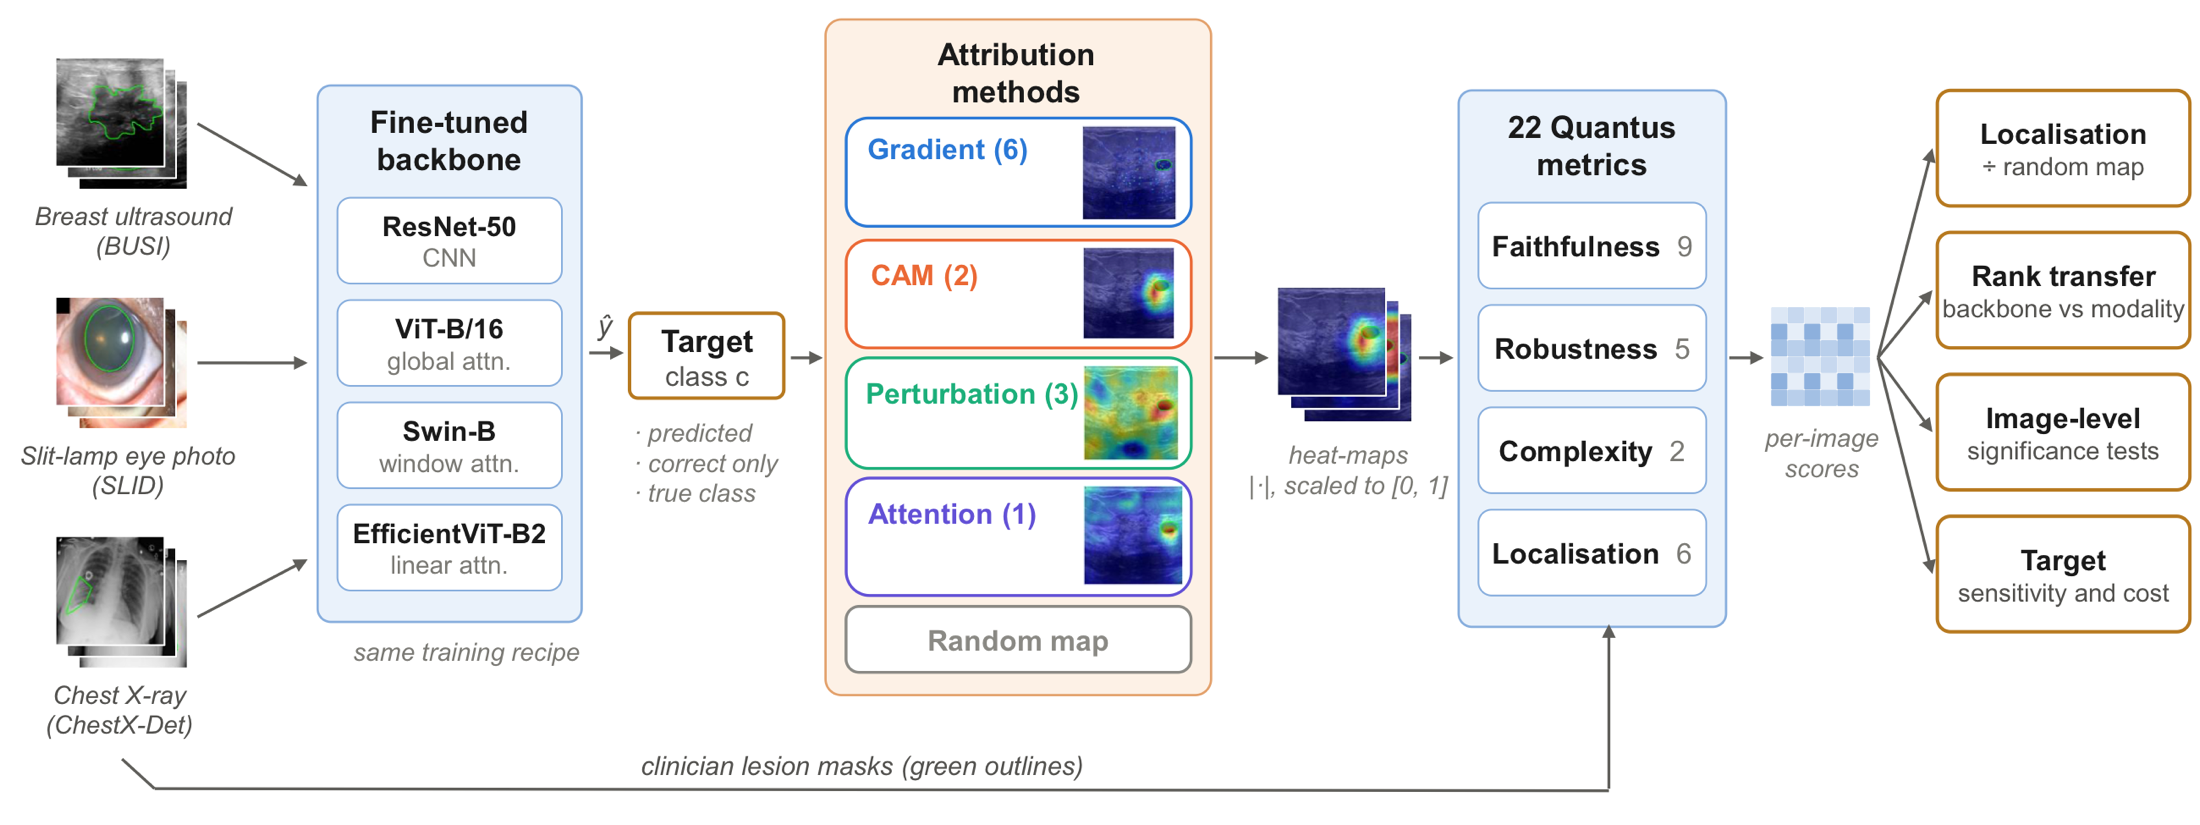
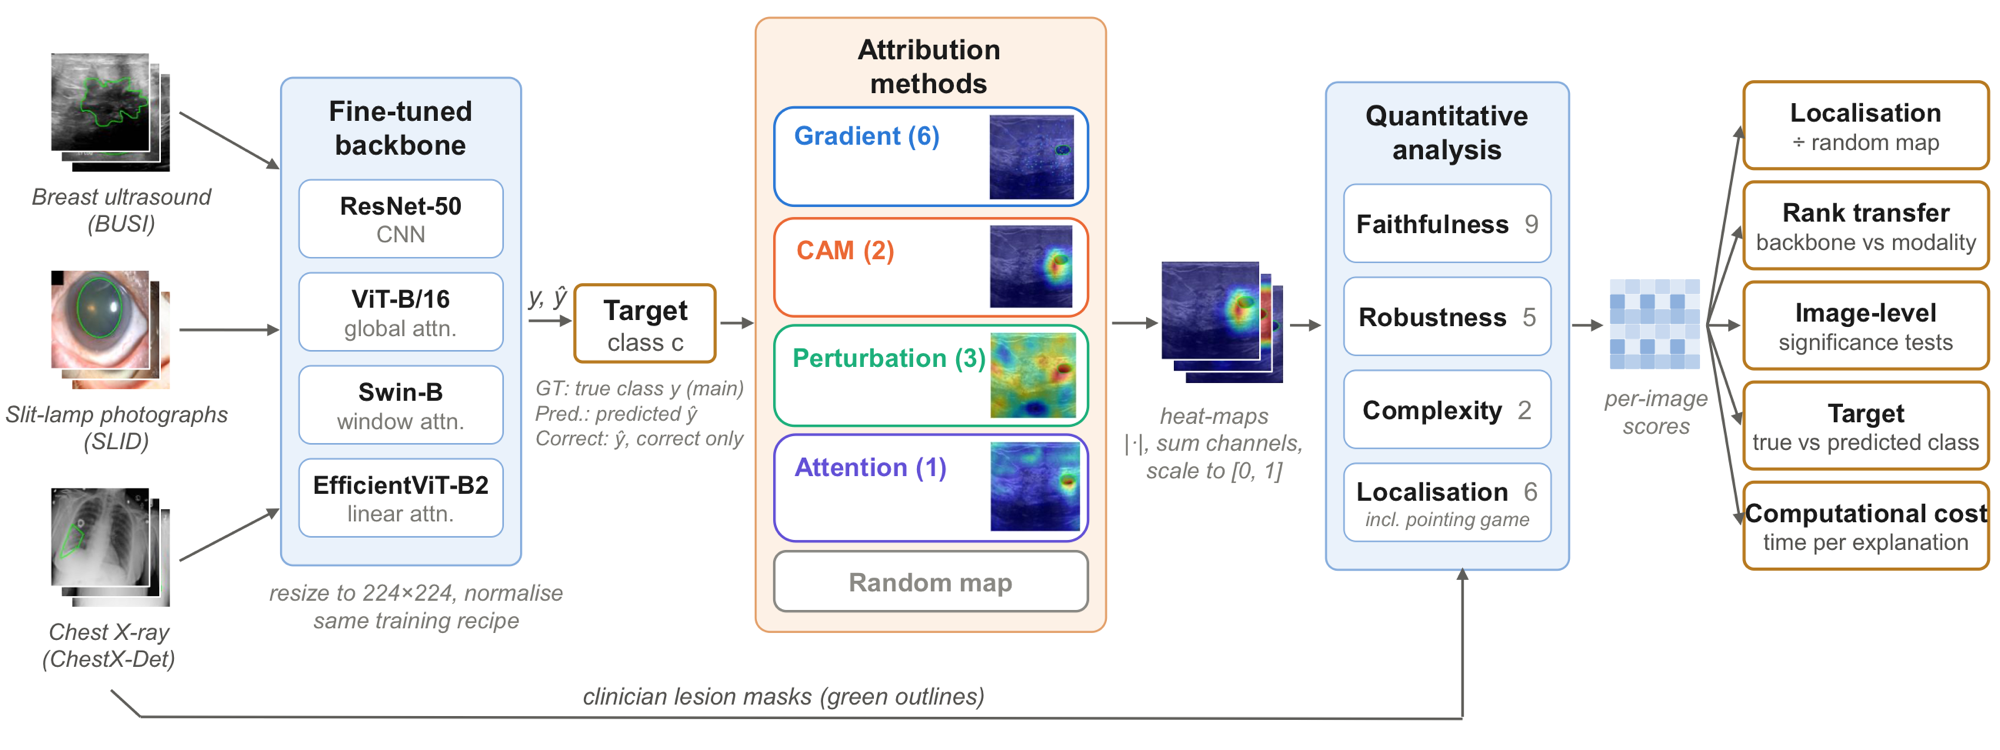
updated figures

diff --git a/docs/index.html b/docs/index.html
@@ -172,8 +172,10 @@ footer{border-top:1px solid var(--line);padding-block:30px 50px;color:var(--mute
   <span class="rq">Architecture or modality?</span>
   <h2 id="h-transfer">Rankings follow the backbone, not the dataset</h2>
   <p class="lede">The 11 methods that run on every backbone are ranked for each metric, and two rankings are compared with the Spearman correlation ρ. <b>Across modalities</b> compares two datasets with the same backbone. <b>Across architectures</b> compares two backbones on the same dataset. Two unrelated rankings of 11 methods would give about 0.</p>
-  <figure class="fig"><img src="static/figures/fig4_transfer.png" alt="(a) EBPG method-ranking agreement matrix, with high agreement within the same backbone. (b) Mean Spearman correlation by metric group, higher across modalities than across architectures."></figure>
+  <figure class="fig"><img src="static/figures/fig5_transfer.png" alt="(a) EBPG method-ranking agreement matrix, with high agreement within the same backbone. (b) Mean Spearman correlation by metric group, higher across modalities than across architectures."></figure>
   <p class="caption"><b>(a)</b> Agreement of EBPG method rankings between every backbone–dataset pair. The dark blocks on the diagonal show that one backbone ranks the methods similarly on all three datasets. <b>(b)</b> Mean ρ by metric group, with 95% bootstrap confidence intervals. For localisation, rankings agree at 0.55 across modalities but only 0.28 across architectures.</p>
+  <figure class="fig" style="margin-top:22px"><img src="static/figures/fig6_rank_bump.png" alt="EBPG rank of the 11 methods: (a) BUSI on four backbones, where the lines cross a lot; (b) EfficientViT-B2 on three datasets, where the ranking stays similar." loading="lazy"></figure>
+  <p class="caption"><b>The rankings behind the correlations</b> (EBPG, true class; rank 1 = best). <b>(a)</b> One dataset (BUSI) on four backbones: Grad-CAM and Grad-CAM++ rank first and second on ResNet-50 but fall to the bottom on ViT-B/16 (mean ρ = 0.27). <b>(b)</b> One backbone (EfficientViT-B2) on three datasets: the simple gradient methods and Occlusion stay in the upper half everywhere (mean ρ = 0.66). CAM methods are drawn as thick lines.</p>
   <details class="explore">
     <summary>Explore the rankings interactively</summary>
     <div class="card">
@@ -212,9 +214,9 @@ footer{border-top:1px solid var(--line);padding-block:30px 50px;color:var(--mute
   <span class="rq">Explanation target</span>
   <h2 id="h-target">Does it matter which class is explained?</h2>
   <p class="lede">When a model misclassifies an image, explaining its prediction can make a method look worse only because the classifier was wrong. We therefore explain the true class, and check whether the results change when the predicted class is explained instead.</p>
-  <figure class="fig"><img src="static/figures/fig5_target.png" alt="EBPG with the predicted-class target against the ground-truth target, per dataset. Points lie on the diagonal except some CAM methods."></figure>
+  <figure class="fig"><img src="static/figures/fig7_target.png" alt="EBPG with the predicted-class target against the ground-truth target, per dataset. Points lie on the diagonal except some CAM methods."></figure>
   <p class="caption"><b>Predicted class vs true class.</b> Each point is one method on one backbone. Points on the dashed diagonal give the same score under both targets. Gradient, perturbation and attention methods stay on the diagonal; only the CAM methods move.</p>
-  <figure class="fig" style="margin-top:22px"><img src="static/figures/fig8_mechanism.png" alt="Why the target matters only for CAM: (a) gradient methods give the same heat-map for either class, (b) CAM keeps different channels per class, (c) ViT-B/16 Grad-CAM gives empty maps."></figure>
+  <figure class="fig" style="margin-top:22px"><img src="static/figures/fig10_mechanism.png" alt="Why the target matters only for CAM: (a) gradient methods give the same heat-map for either class, (b) CAM keeps different channels per class, (c) ViT-B/16 Grad-CAM gives empty maps."></figure>
   <p class="caption"><b>Why only CAM methods change.</b> (a) In a two-class task the gradients of the two classes are near mirror images, so gradient heat-maps are the same for either class. (b) CAM weights change sign with the class, so a different set of channels survives the ReLU. (c) On ViT-B/16 the weighted sum can fall below zero on every patch, which leaves an empty Grad-CAM map.</p>
   <details class="explore">
     <summary>Best method under each protocol</summary>
@@ -253,6 +255,8 @@ footer{border-top:1px solid var(--line);padding-block:30px 50px;color:var(--mute
   <span class="rq">Metric reliability</span>
   <h2 id="h-stats">Which metrics can tell the methods apart?</h2>
   <p class="lede">Image-level Friedman tests over the ranked methods, with Bonferroni correction for the 22 metrics. A metric that cannot separate the methods is of little use for choosing one.</p>
+  <figure class="fig" style="max-width:820px;margin-inline:auto;margin-bottom:10px"><img src="static/figures/fig4_metric_agreement.png" alt="Lower-triangle matrix of mean Spearman correlation between the method rankings of the 22 metrics, grouped into faithfulness, robustness, complexity and localisation." loading="lazy"></figure>
+  <p class="caption" style="margin-bottom:18px"><b>Do the metrics agree with each other?</b> Each cell is the Spearman correlation between the method rankings of two metrics, averaged over the 12 dataset–backbone pairs. The localisation metrics agree closely (mean ρ = 0.70), and so do the two complexity metrics (0.89). Faithfulness metrics agree only weakly (0.25), so the choice of faithfulness metric can change the conclusion.</p>
   <div class="card">
     <div class="controls"><label>Dataset <span class="seg" id="frDs"></span></label></div>
     <div class="scroll"><table id="frTable"></table></div>
@@ -267,11 +271,20 @@ footer{border-top:1px solid var(--line);padding-block:30px 50px;color:var(--mute
   <figure class="fig scroll"><img id="galImg" class="wide" alt="Attribution maps for each backbone and method" loading="lazy"></figure>
 </section>
 
+<!-- ================= METHOD PROFILE ================= -->
+<section class="wrap" aria-labelledby="h-profile">
+  <span class="rq">Recommendations</span>
+  <h2 id="h-profile">Which method should I use?</h2>
+  <p class="lede">For every dataset–backbone pair and metric, the methods are ranked and the rank is scaled from 0 (worst) to 1 (best). Each dot is the mean score over the metrics of one quality criterion and the 12 pairs.</p>
+  <figure class="fig" style="max-width:820px;margin-inline:auto"><img src="static/figures/fig11_method_profile.png" alt="Score of each method on faithfulness, robustness, complexity and localisation, from 0 to 1." loading="lazy"></figure>
+  <p class="caption" style="text-align:center">No method is best on all four criteria. Occlusion localises best but is the slowest, Saliency scores highest on faithfulness, SmoothGrad is the most stable and VarGrad the most concentrated. "–" = robustness not computed for the perturbation methods.</p>
+</section>
+
 <!-- ================= COST ================= -->
 <section class="wrap" aria-labelledby="h-cost">
   <h2 id="h-cost">Cost and quality</h2>
   <p class="lede">Mean time per explanation on the CPU, against how well each method localises lesions (mean EBPG as a multiple of chance over the 12 dataset–backbone pairs).</p>
-  <figure class="fig" style="max-width:760px;margin-inline:auto"><img src="static/figures/fig6_cost.png" alt="Mean EBPG over chance against mean time per explanation, log scale. Saliency and Input×Gradient are fast and accurate; RISE, LIME and Occlusion are slow."></figure>
+  <figure class="fig" style="max-width:760px;margin-inline:auto"><img src="static/figures/fig8_cost.png" alt="Mean EBPG over chance against mean time per explanation, log scale. Saliency and Input×Gradient are fast and accurate; RISE, LIME and Occlusion are slow."></figure>
   <p class="caption" style="text-align:center">Saliency and Input×Gradient are both fast and among the best at localisation. The perturbation methods take seconds to minutes per image.</p>
 </section>
 
@@ -538,10 +551,13 @@ function drawTarget(d){
   let same = 0;
   for (const b of BB){
     const bs = P.map(([p]) => best(b,p));
-    const ok = bs.every(x => x && x.m===bs[0].m); same += ok;
+    const exact = bs.every(x => x && x.m===bs[0].m);
+    // a near-tie (< 0.004 EBPG, as in the paper) counts as the same best method
+    const tie = !exact && bs.every((x,i) => { const r = rows.find(t => t.b===b && t.m===bs[0].m); return x && r && r[P[i][0]]!=null && x[P[i][0]] - r[P[i][0]] < 0.004; });
+    const ok = exact || tie; same += ok;
     h += `<tr><td>${esc(B.backbones[b].label)} <span style="color:var(--muted)">· ${esc(B.backbones[b].family)}</span></td>` +
       bs.map((x,i) => x ? `<td>${esc(mLabel(x.m))} <span style="color:var(--muted)">(${fmt(x[P[i][0]])})</span></td>` : "<td>—</td>").join("") +
-      `<td class="${ok?"ok":"no"}">${ok?"✓ Yes":"✗ No"}</td></tr>`;
+      `<td class="${ok?"ok":"no"}">${exact?"✓ Yes":tie?"✓ Yes (tie, &lt; 0.004)":"✗ No"}</td></tr>`;
   }
   $("tgTable").innerHTML = h + "</tbody>";
   const acc = B.accuracy.filter(a => a.d===d);
@@ -616,7 +632,7 @@ segmented($("frDs"), dsItems, DS[0], drawFr);
 /* ---------- gallery ---------- */
 const GALLERY = {busi:"busi", slid:"slid", chestxdet_effusion:"cxd"};
 segmented($("galDs"), dsItems, DS[0], d => {
-  $("galImg").src = `static/figures/fig7_gallery_${GALLERY[d]}.jpg`;
+  $("galImg").src = `static/figures/fig9_gallery_${GALLERY[d]}.jpg`;
   $("galImg").alt = `Attribution maps of every method and backbone on one ${dShort(d)} image`;
 });
 
